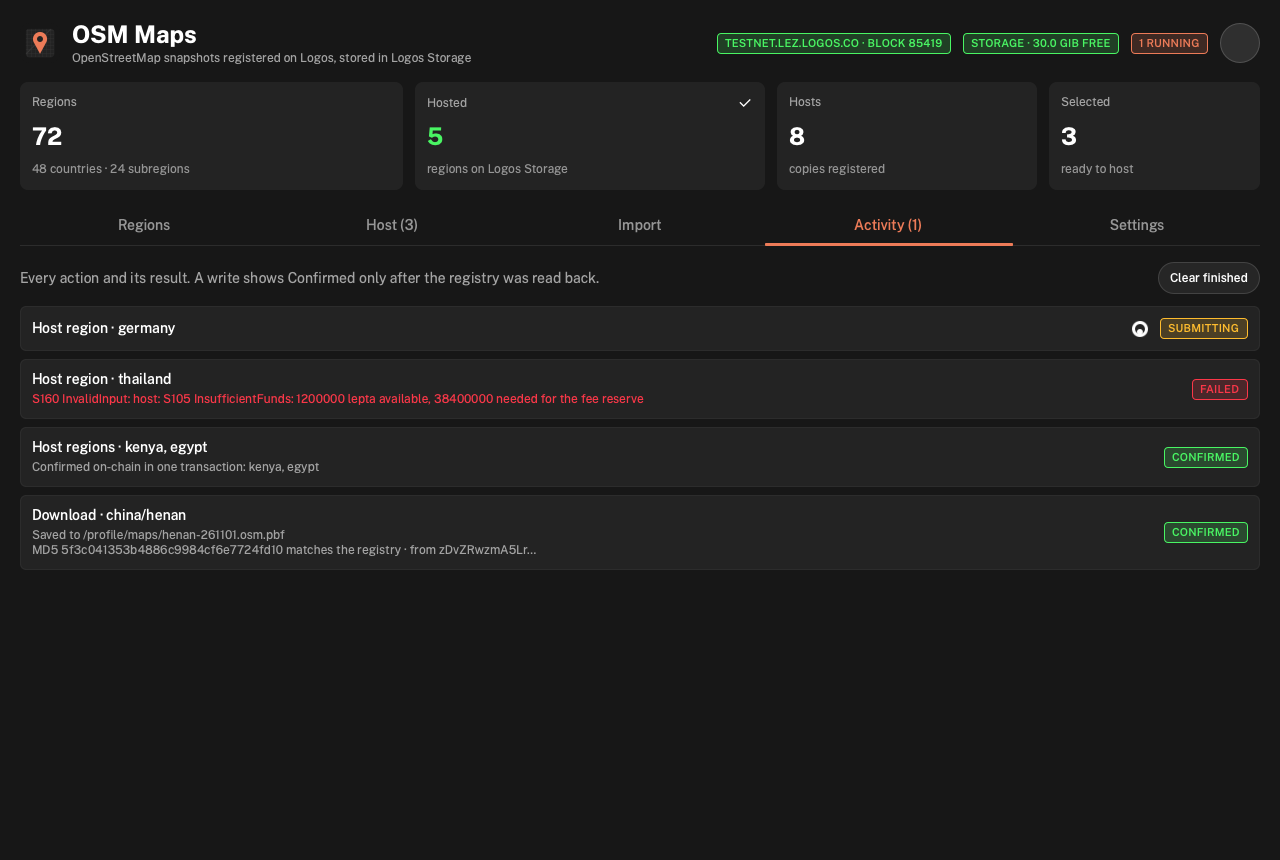
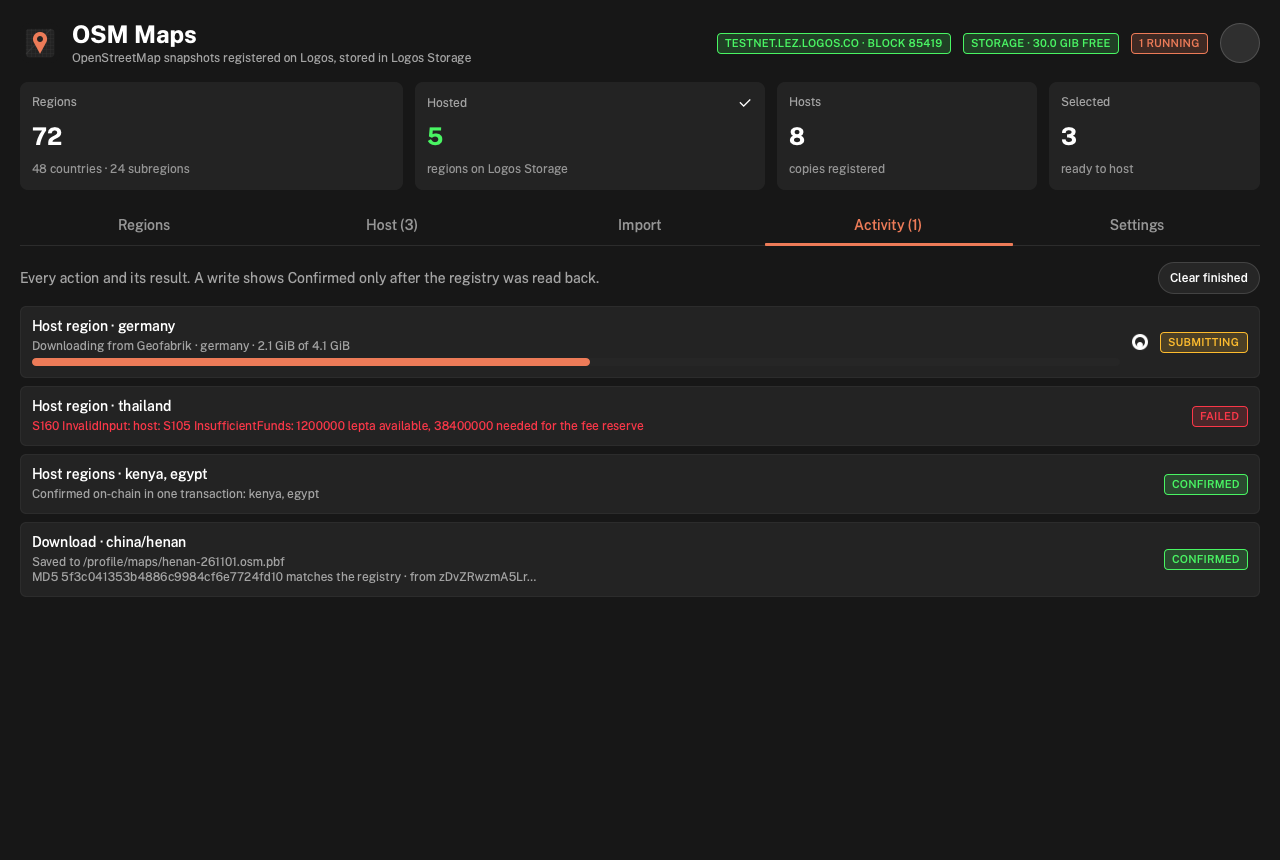
feat(basecamp): progress events (download bytes, verify, upload, register) shown as a progress bar; settings report each value's source (default or set by the user); JobTable.runningCount; self-review E67/E68 pass

Changed region(s): [[0.0312, 0.3628, 0.5, 0.6953], [0.875, 0.3628, 1.0, 0.5744], [0.9062, 0.6047, 1.0, 0.6651]]

diff --git a/basecamp/osm-app/src/qml/Main.qml b/basecamp/osm-app/src/qml/Main.qml
@@ -24,6 +24,7 @@ Item {
     property var selected: ({})
     property int selectedCount: 0
     property var settings: ({})
+    property var settingSources: ({})
     property var jobs: ({})
     // Pending job id -> function(answerObject), run once when the job finishes.
     property var handlers: ({})
@@ -51,6 +52,8 @@ Item {
     // What the configured sequencer and Storage node answered (E77): real probes, not assumptions.
     property var services: ({})
     property bool probing: false
+    // Latest progress event from the module: {region, stage, done, total} (E67).
+    property var progress: ({})
 
     Rectangle {
         anchors.fill: parent
@@ -77,6 +80,7 @@ Item {
         target: root.backend
         ignoreUnknownSignals: true
         function onJobsChanged() { root.onJobs(); }
+        function onProgressChanged() { root.progress = root.parse(root.backend.progress || "{}"); }
     }
 
     // ---- helpers ----------------------------------------------------------------------------
@@ -116,6 +120,12 @@ Item {
     }
 
     // Unix ms -> "2026-11-23 10:23 UTC", built from the date's parts (no locale formatting).
+    // "Sequencer RPC · default" / "· set by you" (E68).
+    function settingLabel(name, key) {
+        var s = root.settingSources[key];
+        return s === "default" ? name + " · default" : s === "custom" ? name + " · set by you" : name;
+    }
+
     function formatTime(ms) {
         if (!ms)
             return "";
@@ -180,10 +190,14 @@ Item {
     }
 
     function refresh() {
+        // A run may already be going when the view opens.
+        root.progress = root.parse(root.backend.progress || "{}");
         root.probe();
         run("settings", "", function (a) {
-            if (a.ok)
+            if (a.ok) {
                 root.settings = a.data.settings;
+                root.settingSources = a.data.sources || {};
+            }
         });
         root.loadingRegions = true;
         run("discover", "", function (a) {
@@ -481,6 +495,29 @@ Item {
         } catch (e) {
             return "";
         }
+    }
+
+    readonly property var stageNames: ({"download": "Downloading from Geofabrik", "verify": "Checking MD5",
+        "upload": "Uploading to Logos Storage", "stored": "Stored in Logos Storage", "register": "Waiting for the registry"})
+
+    // "Downloading from Geofabrik · 120.0 MiB of 1.2 GiB" for a job whose subject names the region.
+    function progressText(j) {
+        var p = root.progress;
+        if (!p.region || jobSubject(j).indexOf(p.region) < 0)
+            return "";
+        var s = (stageNames[p.stage] || p.stage) + " · " + p.region;
+        if (p.total > 0 && p.stage === "download")
+            s += " · " + formatSize(p.done) + " of " + formatSize(p.total);
+        else if (p.total > 0)
+            s += " · " + formatSize(p.total);
+        return s;
+    }
+
+    function progressValue(j) {
+        var p = root.progress;
+        if (!p.region || jobSubject(j).indexOf(p.region) < 0 || !(p.total > 0))
+            return -1;
+        return p.stage === "download" ? p.done / p.total : 1;
     }
 
     function runningCount() {
@@ -1177,6 +1214,18 @@ Item {
                                 }
                                 LogosText {
                                     Layout.fillWidth: true
+                                    visible: jobRow.modelData.state === "submitting" && text.length > 0
+                                    text: root.progressText(jobRow.modelData)
+                                    color: Theme.palette.textSecondary
+                                    font.pixelSize: Theme.typography.secondaryText
+                                }
+                                LogosProgressBar {
+                                    Layout.fillWidth: true
+                                    visible: jobRow.modelData.state === "submitting" && root.progressValue(jobRow.modelData) >= 0
+                                    value: Math.max(0, root.progressValue(jobRow.modelData))
+                                }
+                                LogosText {
+                                    Layout.fillWidth: true
                                     visible: jobRow.modelData.state !== "submitting"
                                     text: root.describe(jobRow.modelData.method, root.parse(jobRow.modelData.answer || "{}"))
                                     color: jobRow.modelData.state === "failed" ? Theme.palette.error : Theme.palette.textSecondary
@@ -1213,13 +1262,13 @@ Item {
                         title: "Network and storage"
                         subtitle: "Where the registry lives and which Logos Storage node your files go to. Saved per Basecamp profile."
 
-                        LogosText { text: "Sequencer RPC"; color: Theme.palette.textSecondary; font.pixelSize: Theme.typography.secondaryText }
+                        LogosText { text: root.settingLabel("Sequencer RPC", "rpc"); color: Theme.palette.textSecondary; font.pixelSize: Theme.typography.secondaryText }
                         LogosTextField { id: setRpc; Layout.fillWidth: true; text: root.settings.rpc || "" }
-                        LogosText { text: "Registry program"; color: Theme.palette.textSecondary; font.pixelSize: Theme.typography.secondaryText }
+                        LogosText { text: root.settingLabel("Registry program", "program"); color: Theme.palette.textSecondary; font.pixelSize: Theme.typography.secondaryText }
                         LogosTextField { id: setProgram; Layout.fillWidth: true; text: root.settings.program || "" }
-                        LogosText { text: "Storage API"; color: Theme.palette.textSecondary; font.pixelSize: Theme.typography.secondaryText }
+                        LogosText { text: root.settingLabel("Storage API", "storage"); color: Theme.palette.textSecondary; font.pixelSize: Theme.typography.secondaryText }
                         LogosTextField { id: setStorage; Layout.fillWidth: true; text: root.settings.storage || "" }
-                        LogosText { text: "Host account"; color: Theme.palette.textSecondary; font.pixelSize: Theme.typography.secondaryText }
+                        LogosText { text: root.settingLabel("Host account", "host"); color: Theme.palette.textSecondary; font.pixelSize: Theme.typography.secondaryText }
                         LogosTextField { id: setHost; Layout.fillWidth: true; text: root.settings.host || ""; placeholderText: "Public/…" }
                         LogosSwitch {
                             id: setGeofabrik

diff --git a/tests/ui/preview.qml b/tests/ui/preview.qml
@@ -36,6 +36,7 @@ Window {
     QtObject {
         id: backend
         property string jobs: JSON.stringify(win.sample.jobs)
+        property string progress: JSON.stringify({"region": "germany", "stage": "download", "done": 2254857830, "total": 4402341478})
         property int n: 0
         function call(method, arg) {
             var id = method + "-" + (++n);

diff --git a/basecamp/osm-distribution/rust-lib/src/lib.rs b/basecamp/osm-distribution/rust-lib/src/lib.rs
@@ -63,6 +63,13 @@ pub trait PramadaniOsmDistributionModule: Send + 'static {
     fn on_context_ready(&mut self, _ctx: &RustModuleContext) {}
 }
 
+/// Events of this module.
+pub trait PramadaniOsmDistributionModuleEvents {
+    /// Progress of a long operation on `region`: `stage` is "download", "verify", "upload",
+    /// "stored" or "register"; `done` and `total` are bytes (0 when not known).
+    fn progress(&self, region: String, stage: String, done: u64, total: u64);
+}
+
 include!(concat!(env!("CARGO_MANIFEST_DIR"), "/generated/provider_gen.rs"));
 
 /// Defaults = networks.json profile `v03-public` at the pinned commit (rehearsal network).
@@ -124,6 +131,9 @@ fn write_and_confirm(
         _ => (region_hex.into_iter().chain(std::iter::once(host_hex)).collect(), regions.iter().map(|_| false).chain(std::iter::once(true)).collect()),
     };
     let program_hex = account_hex(program)?;
+    for r in regions {
+        emit_progress(r, "register", 0, 0);
+    }
     // Default-level log of every write (E82): which regions, which host, then the outcome.
     eprintln!("pramadani_osm_distribution: sending a registry write for {} as {host_b58}", regions.join(", "));
     let tx = modules()
@@ -214,9 +224,20 @@ impl Distribution {
             None => osm_sdk::snapshot::first_of_month(g.latest_snapshot(def)?),
         };
         eprintln!("pramadani_osm_distribution: downloading {region} snapshot {snap:06} from Geofabrik");
-        let (path, md5) = g.download_snapshot(def, snap, &dir, |_, _| {})?;
+        // Byte progress for the app, at most twice a second.
+        let mut last = std::time::Instant::now() - std::time::Duration::from_secs(1);
+        let (path, md5) = g.download_snapshot(def, snap, &dir, |done, total| {
+            if last.elapsed() >= std::time::Duration::from_millis(500) {
+                last = std::time::Instant::now();
+                emit_progress(region, "download", done, total.unwrap_or(0));
+            }
+        })?;
+        let size = std::fs::metadata(&path).map(|m| m.len()).unwrap_or(0);
+        emit_progress(region, "verify", size, size);
         eprintln!("pramadani_osm_distribution: {region}: MD5 matches Geofabrik; uploading to Logos Storage");
+        emit_progress(region, "upload", 0, size);
         let cid = self.upload(&path)?;
+        emit_progress(region, "stored", size, size);
         eprintln!("pramadani_osm_distribution: {region}: stored as {cid}");
         let size = std::fs::metadata(&path).map_err(|err| invalid("file", err.to_string()))?.len();
         let _ = osm_sdk::datadir::enforce_cache_cap(&dir, 20 << 30, &path);
@@ -318,7 +339,18 @@ impl PramadaniOsmDistributionModule for Distribution {
     }
 
     fn settings(&mut self) -> String {
-        api::envelope(Ok(json!({"settings": self.settings, "data_dir": self.dir})))
+        // Where each effective value comes from (E68): the built-in default, or the user's own.
+        let defaults = default_settings();
+        let sources: serde_json::Map<String, Value> = self
+            .settings
+            .as_object()
+            .map(|o| {
+                o.iter()
+                    .map(|(k, v)| (k.clone(), json!(if defaults.get(k) == Some(v) { "default" } else { "custom" })))
+                    .collect()
+            })
+            .unwrap_or_default();
+        api::envelope(Ok(json!({"settings": self.settings, "sources": sources, "data_dir": self.dir})))
     }
 
     fn configure(&mut self, settings: String) -> String {

diff --git a/basecamp/osm-app/src/pramadani_osm_app_backend.cpp b/basecamp/osm-app/src/pramadani_osm_app_backend.cpp
@@ -1,5 +1,8 @@
 #include "pramadani_osm_app_backend.h"
 
+#include <QJsonDocument>
+#include <QJsonObject>
+
 #include "logos_sdk.h"
 
 namespace {
@@ -43,7 +46,22 @@ QString PramadaniOsmAppBackend::call(QString method, QString arg)
 void PramadaniOsmAppBackend::finish(const QString& id, const QString& answer)
 {
     m_jobs.finish(id, answer);
+    if (m_jobs.runningCount() == 0)
+        setProgress(QStringLiteral("{}"));
     publish();
+}
+
+void PramadaniOsmAppBackend::onContextReady()
+{
+    // Byte progress of downloads and uploads, forwarded to the view as one JSON PROP.
+    PramadaniOsmDistribution::EventCallback cb = [this](const QVariantList& a) {
+        if (a.size() < 4)
+            return;
+        QJsonObject o{{"region", a[0].toString()}, {"stage", a[1].toString()},
+                      {"done", a[2].toDouble()}, {"total", a[3].toDouble()}};
+        setProgress(QString::fromUtf8(QJsonDocument(o).toJson(QJsonDocument::Compact)));
+    };
+    modules().pramadani_osm_distribution.on(QStringLiteral("progress"), cb);
 }
 
 void PramadaniOsmAppBackend::clearFinished()

diff --git a/basecamp/osm-sdk/rust-lib/src/lib.rs b/basecamp/osm-sdk/rust-lib/src/lib.rs
@@ -82,7 +82,18 @@ impl PramadaniOsmSdkModule for Distribution {
     }
 
     fn settings(&mut self) -> String {
-        api::envelope(Ok(json!({"settings": self.settings, "data_dir": self.dir})))
+        // Where each effective value comes from (E68): the built-in default, or the user's own.
+        let defaults = default_settings();
+        let sources: serde_json::Map<String, Value> = self
+            .settings
+            .as_object()
+            .map(|o| {
+                o.iter()
+                    .map(|(k, v)| (k.clone(), json!(if defaults.get(k) == Some(v) { "default" } else { "custom" })))
+                    .collect()
+            })
+            .unwrap_or_default();
+        api::envelope(Ok(json!({"settings": self.settings, "sources": sources, "data_dir": self.dir})))
     }
 
     fn configure(&mut self, settings: String) -> String {

diff --git a/tests/module_load.py b/tests/module_load.py
@@ -80,7 +80,7 @@ try:
     for m in ("pramadani_osm_sdk", "pramadani_osm_distribution"):
         must(f"load {m}", "module", "load", m)
         call(f"{m}.version", m, "version", check=lambda d: d["api"] == 1)
-        call(f"{m}.settings", m, "settings", check=lambda d: d["data_dir"] and m in d["data_dir"])
+        call(f"{m}.settings", m, "settings", check=lambda d: d["data_dir"] and m in d["data_dir"] and d["sources"]["rpc"] == "default")
         # A real probe of the default sequencer; no Storage node runs in CI, so storage must
         # report itself unreachable rather than pretend.
         call(f"{m}.status", m, "status", check=lambda d: d["rpc"]["ok"] and d["rpc"]["block"] > 0 and d["storage"]["ok"] is False)

diff --git a/basecamp/osm-app/src/job_table.h b/basecamp/osm-app/src/job_table.h
@@ -67,6 +67,14 @@ public:
 
     QString state(const QString& id) const { return m_jobs.value(id).toObject().value("state").toString(); }
     int size() const { return m_order.size(); }
+    int runningCount() const
+    {
+        int n = 0;
+        for (const QString& id : m_order)
+            if (state(id) == "submitting")
+                n++;
+        return n;
+    }
 
     QString json() const { return QString::fromUtf8(QJsonDocument(m_jobs).toJson(QJsonDocument::Compact)); }
 

diff --git a/basecamp/osm-app/src/pramadani_osm_app_backend.h b/basecamp/osm-app/src/pramadani_osm_app_backend.h
@@ -14,6 +14,7 @@ class PramadaniOsmAppBackend : public PramadaniOsmAppSimpleSource,
 public:
     QString call(QString method, QString arg) override;
     void clearFinished() override;
+    void onContextReady() override;
 
 private:
     void finish(const QString& id, const QString& answer);

diff --git a/tests/cpp/job_table_test.cpp b/tests/cpp/job_table_test.cpp
@@ -64,6 +64,7 @@ int main()
 
     // clearFinished keeps running jobs only.
     const QString running = t.start("host", R"({"region":"kenya"})");
+    CHECK(t.runningCount() == 1);
     t.clearFinished();
     CHECK(t.size() == 1);
     CHECK(t.state(running) == "submitting");

diff --git a/docs/self-review.md b/docs/self-review.md
@@ -35,8 +35,8 @@ registered on the public v0.3 testnet; the 15/25 coverage must be on testnet 0.4
 
 **L3 (open). No SPEL IDL for 0.4.** Needs SPEL support for LEZ 0.4.
 
-**L5 (open). No progress for long operations in the app.** Host and download show a spinner and a
-running count, not bytes; the module answers once per call (E67).
+**L5 (fixed).** Long operations report progress: the distribution module emits `progress`
+events and the app shows a progress bar on the running job (E67).
 
 ## E.1 rows
 
@@ -108,8 +108,8 @@ running count, not bytes; the module answers once per call (E67).
 | E64 | Silent input changes | PASS | rejected, never trimmed (claim 11) |
 | E65 | Shown fee ≠ charged | PARTIAL | the dialog states the reserve, not a fee estimate; measured fees in docs/cycles.md |
 | E66 | Confirm hides the cost | PARTIAL | dialog: regions, transactions, fee reserve, cache cap; not the total GB (known only after download) |
-| E67 | No progress | PARTIAL | spinner and running count; no byte progress in the app (CLI prints steps) |
-| E68 | Settings hide the effective value | PARTIAL | effective values shown; their source (default or saved) not shown |
+| E67 | No progress | PASS | the module emits `progress` events (download bytes, verify, upload, register); the app shows a progress bar on the running job |
+| E68 | Settings hide the effective value | PASS | Settings show each effective value and whether it is the default or set by the user (`settings().sources`) |
 | E69 | Undeclared runtime dependency | PASS | manifests declare lez_core (optional) and the SDK; Storage is reached over its REST API (ADR 0004) |
 | E70 | Portable library RUNPATH | UNVERIFIABLE | built by logos-module-builder's portable bundler; loads in Basecamp on macOS, not inspected |
 | E71 | Hosting exposes node address | PASS | security.md and limitations.md |
